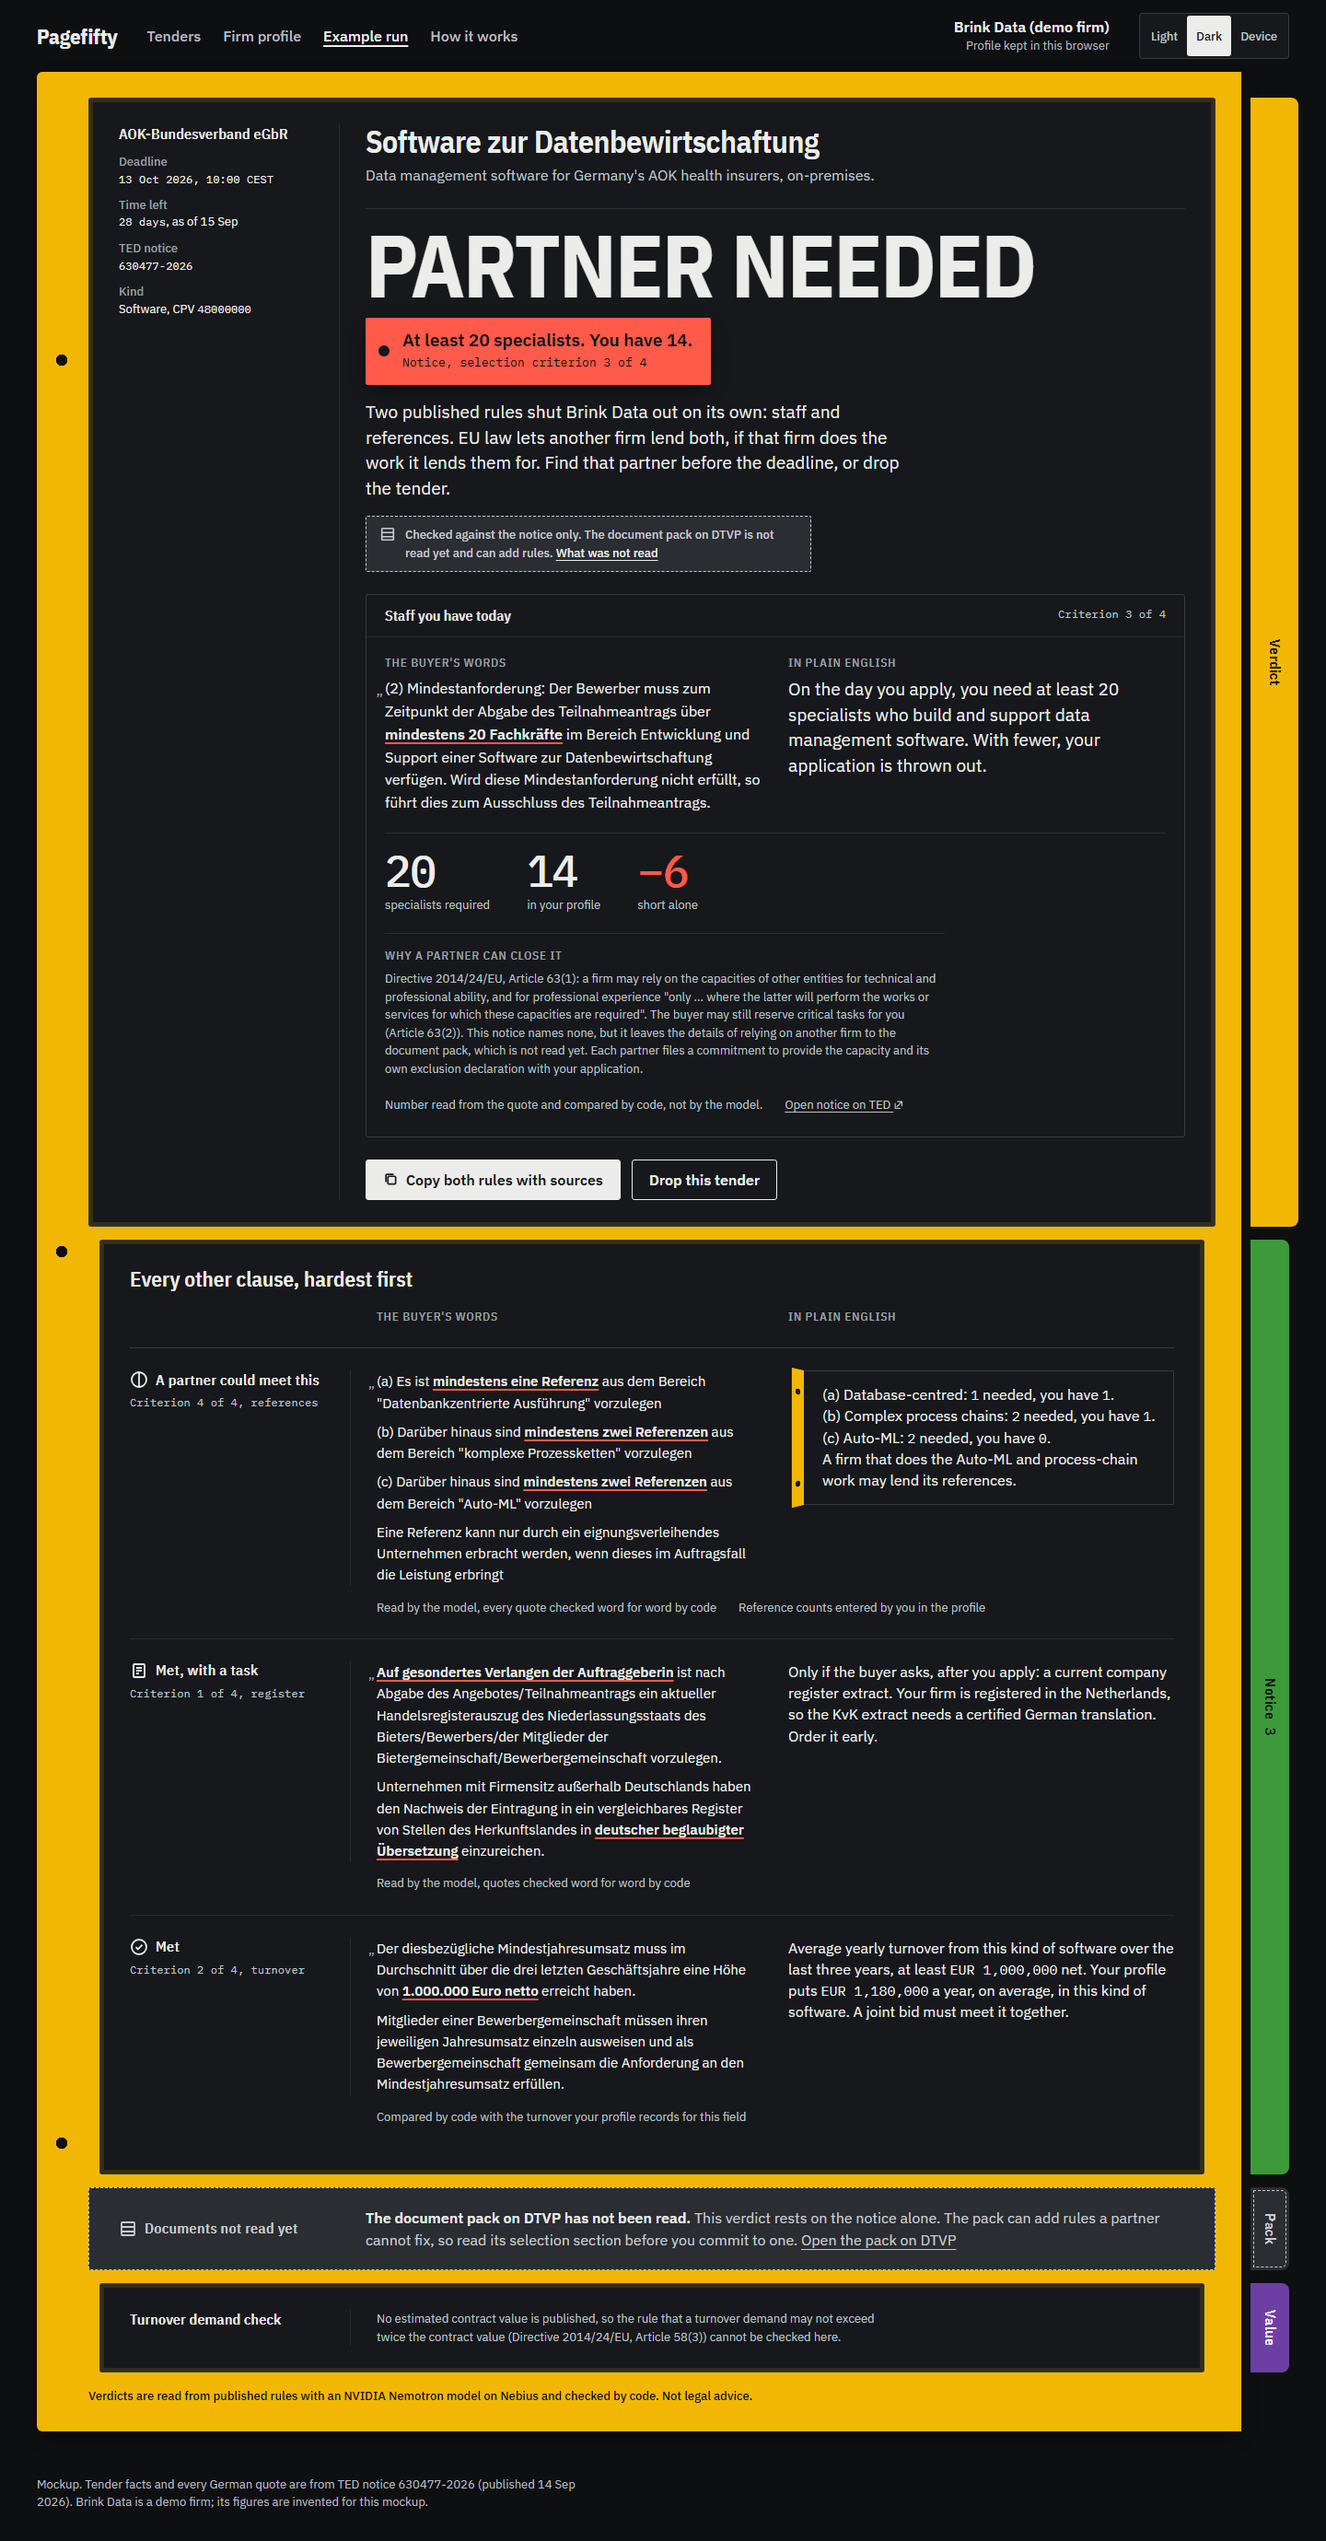
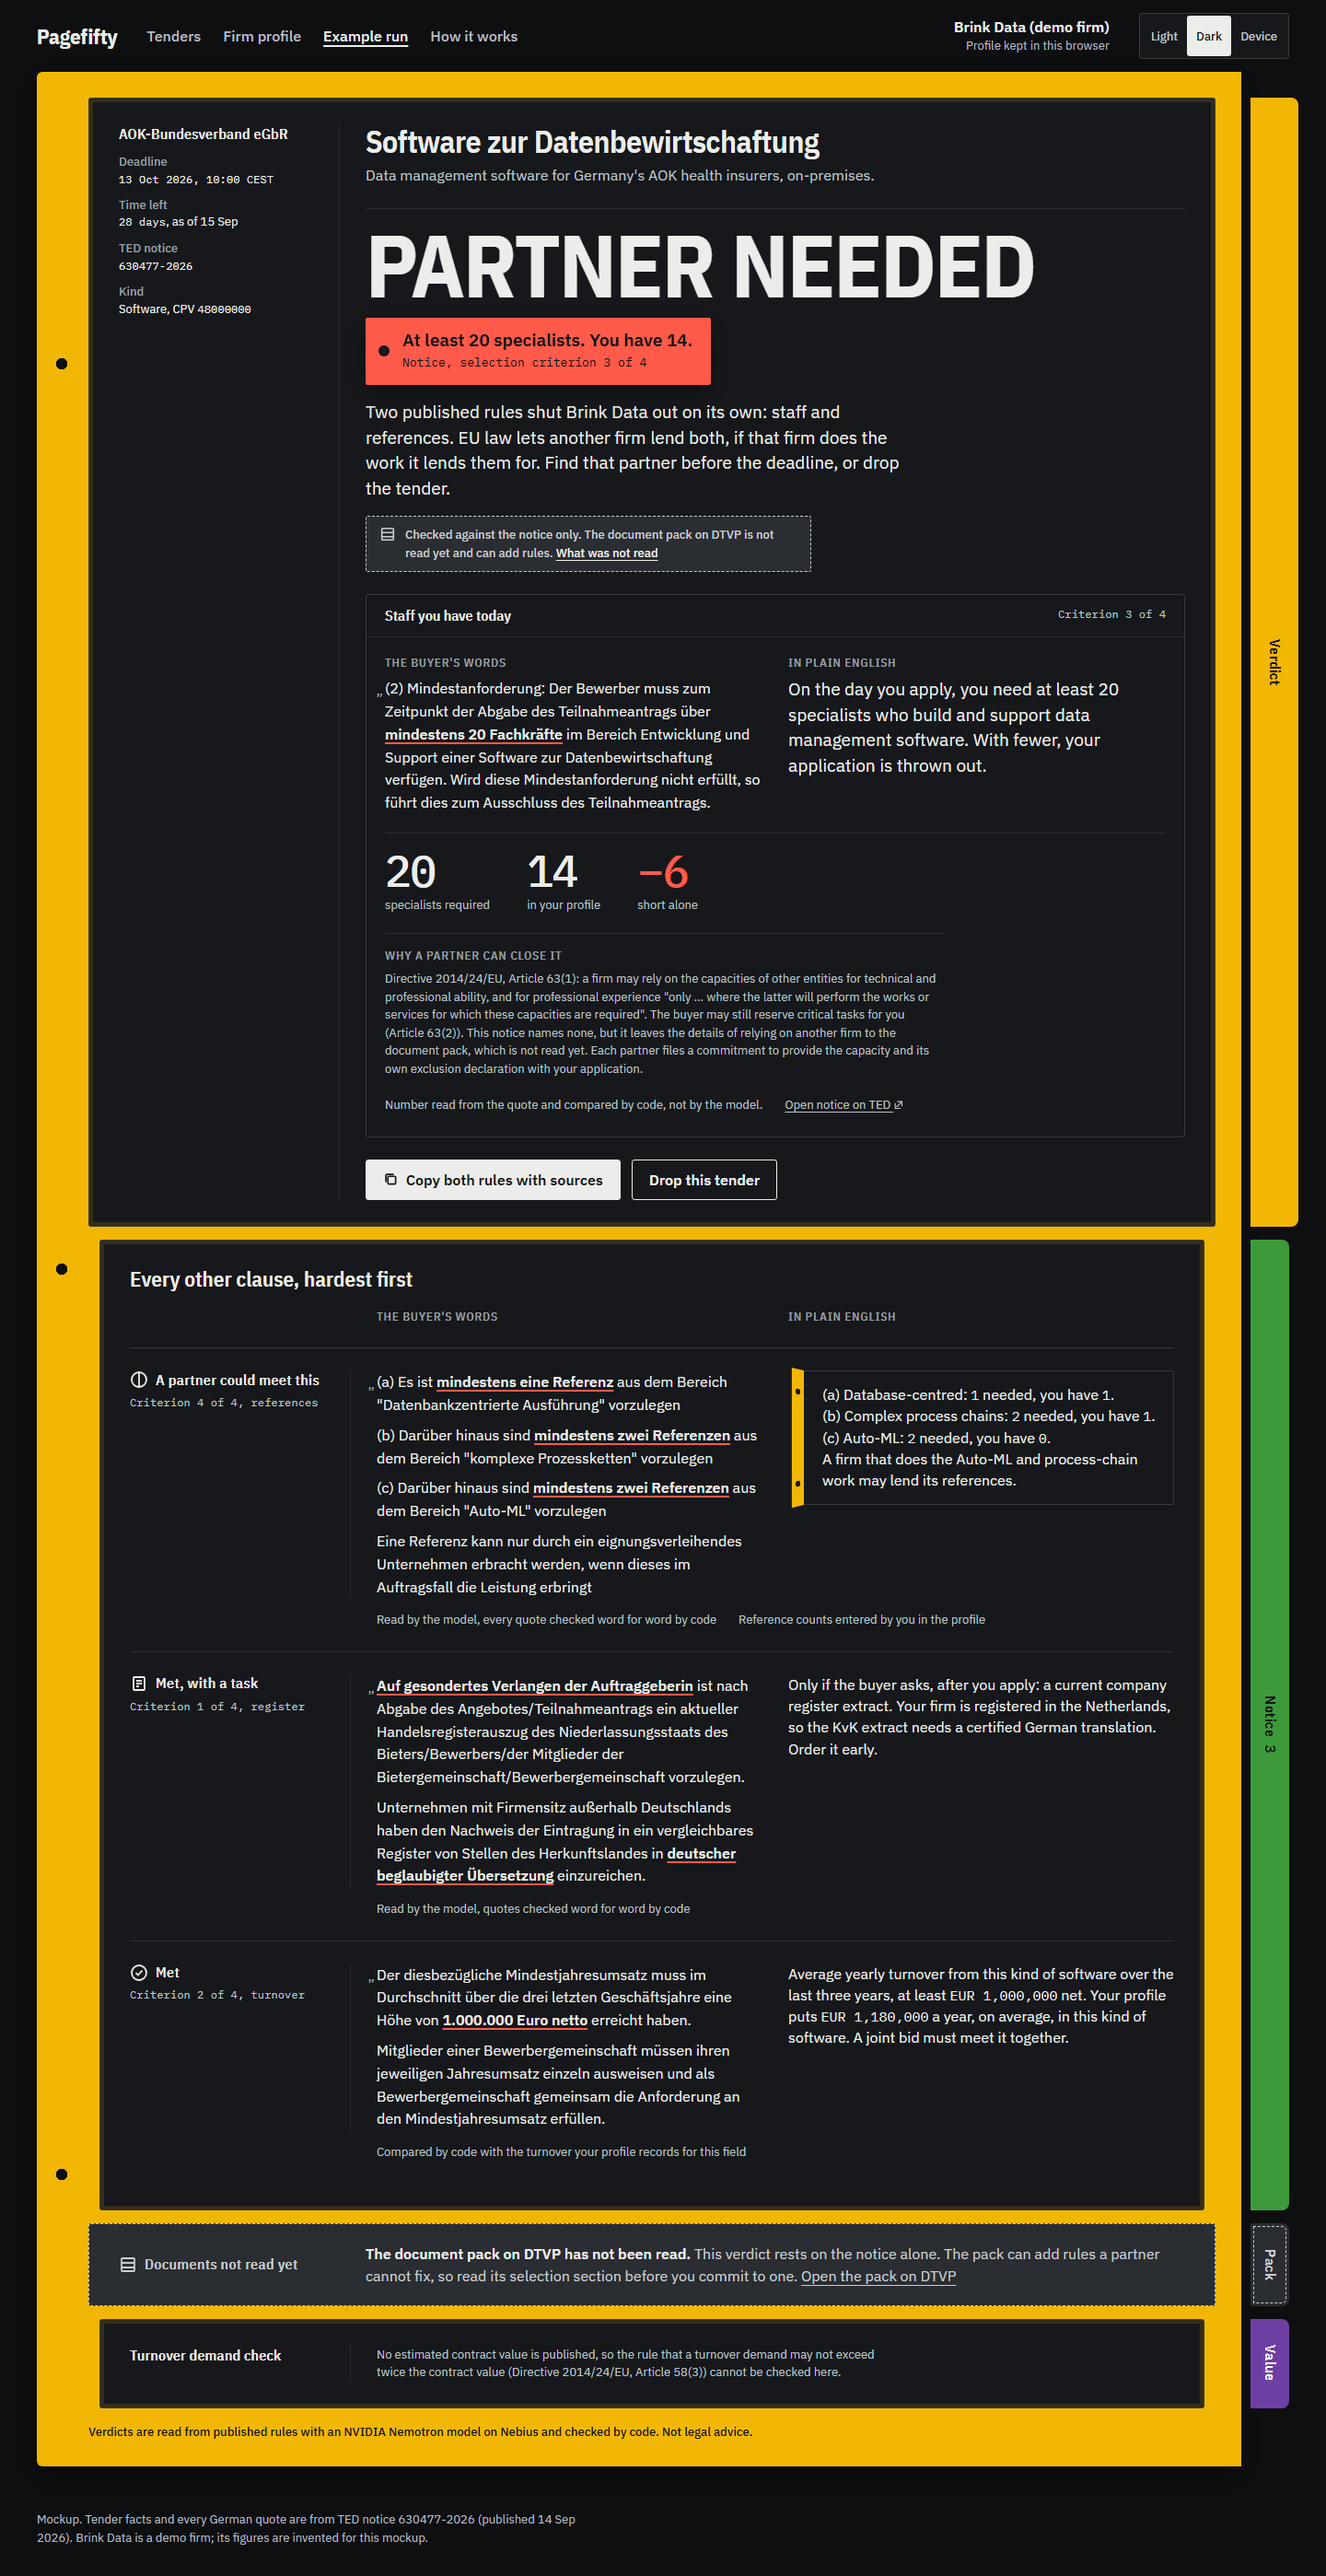
fix(design): set other-clause quotes on the documented type scale
The quotes in the other-clauses rows were 15px, a size outside the
13, 16, 19 px scale in ART-DIRECTION.md. They now use step 0 (16px),
matching the reading beside them. The four verdict mockups are
recaptured; the other sixteen reproduce byte for byte.

diff --git a/design/assets/pagefifty.css b/design/assets/pagefifty.css
@@ -665,7 +665,7 @@ dl.facts dd {
 
 .clause .quote {
 	grid-column: 2 / span 2;
-	font-size: 0.9375rem;
+	font-size: var(--step-0);
 	color: var(--ink);
 }
 
